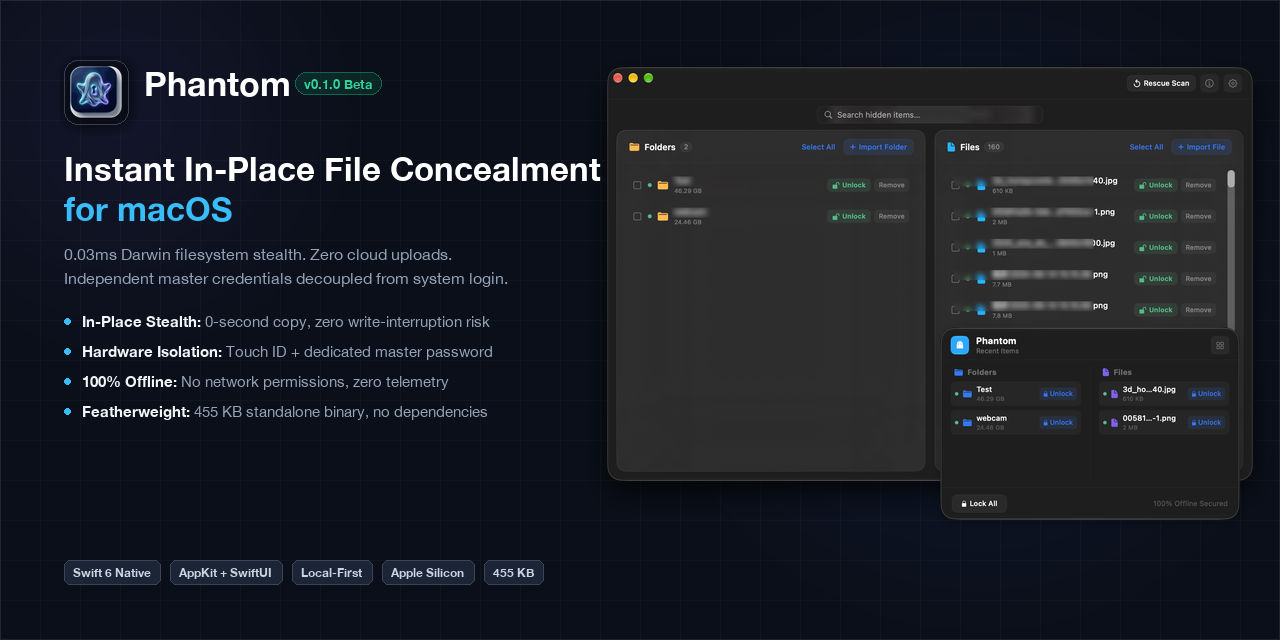
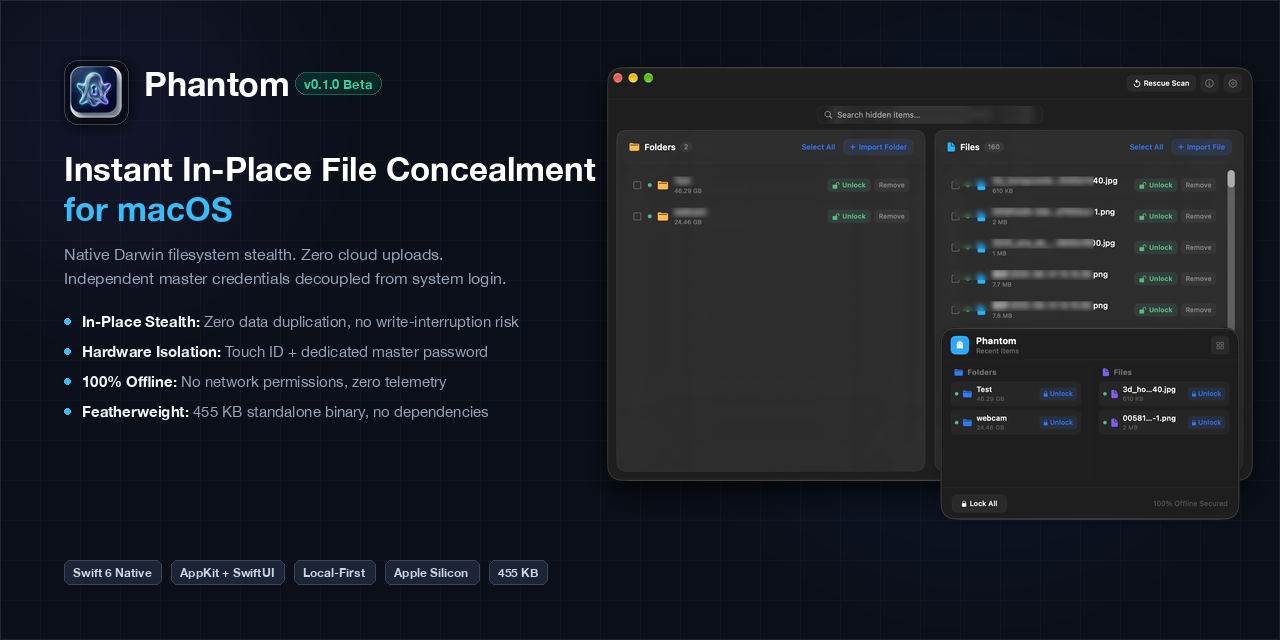
docs(refactor): desensitize terminology and remove exaggerated claims

diff --git a/CHANGELOG.md b/CHANGELOG.md
@@ -13,7 +13,7 @@ This project adheres to [Semantic Versioning](https://semver.org/).
 #### 核心能力与安全架构
 * **物理级文件隐匿 (File Concealment)**：
   - 基于 macOS Darwin 内核系统调用（`lchflags`、`chmod`、`setxattr`），隐匿后的项目在访达（Finder）与聚光灯搜索（Spotlight）中隐匿不可见，配合权限加锁阻断非法读写；
-  - 时间复杂度为 O(1) 微秒级瞬间完成，对百 GB 级超大文件夹零耗时卡顿。
+  - 时间复杂度为 O(1)，就地修改元数据即时生效，对大体积文件夹无复制等待。
 * **生物识别与钥匙串隔离 (Touch ID & Keychain)**：
   - 支持 Touch ID 一触即开，密钥受硬件安全隔离（Secure Enclave / Keychain）保护；
   - 100% 纯本地离线运行，零外网通信，零遥测上报，零云端存储。
@@ -24,7 +24,7 @@ This project adheres to [Semantic Versioning](https://semver.org/).
   - 顶部工具栏贯彻 macOS 原生留白设计，取消多余悬挂图标，右侧保持三键极简规范；
   - 偏好设置全面净空副标题小字，移除冗余商业版字样，底部仅保留纯净版本号。
 * **「安全防窥策略」双档位模式 (P8 Dual-Mode Anti-Peep & Focus)**：
-  - **极致防窥模式（默认）**：零信任失焦即关即锁。光标离开大窗口区域时，大窗口在 1 毫秒内主动优雅关闭销毁，内存解密密钥即刻抹除，杜绝开放环境下的偷窥风险；
+  - **极致防窥模式（默认）**：失焦即关即锁。光标离开大窗口区域时，大窗口主动平滑关闭，内存解密密钥即刻抹除，降低开放环境下的窥视风险；
   - **沉浸整理模式**：为多任务与跨应用拖拽设计。大窗口失去焦点时在后台保持打开，不自杀、不抹除密钥；关闭窗口时自动重新锁定会话；
   - **原生偏好设置交互**：内置 Liquid Glass 原生双档位分段切换器与 Apple HIG 标准规范指引，免激活全量开放体验。
 * **智能生物认证与焦点防误杀**：
@@ -42,7 +42,7 @@ This project adheres to [Semantic Versioning](https://semver.org/).
 * **CoreAnimation 异步硬件加速**：
   - 视图开启 `drawsAsynchronously = true` 与 `allowsConcurrentViewDrawing = true`，毛玻璃材质光栅化移交专用渲染队列；
 * **数据供给 O(1) 预计算缓存**：
-  - 衍生列表响应式预计算缓存，在高刷新率屏幕上实现绝对物理丝滑。
+  - 衍生列表响应式预计算缓存，在高刷新率屏幕上保持流畅响应。
 
 #### 极致轻量工程
 * **极致包体**：全模块优化 + 符号剥离 + Apple 原生 ULMO LZMA 压缩，最终 DMG 安装包体积严格控制在 ~690 KB（远低于 1MB 上限）。
